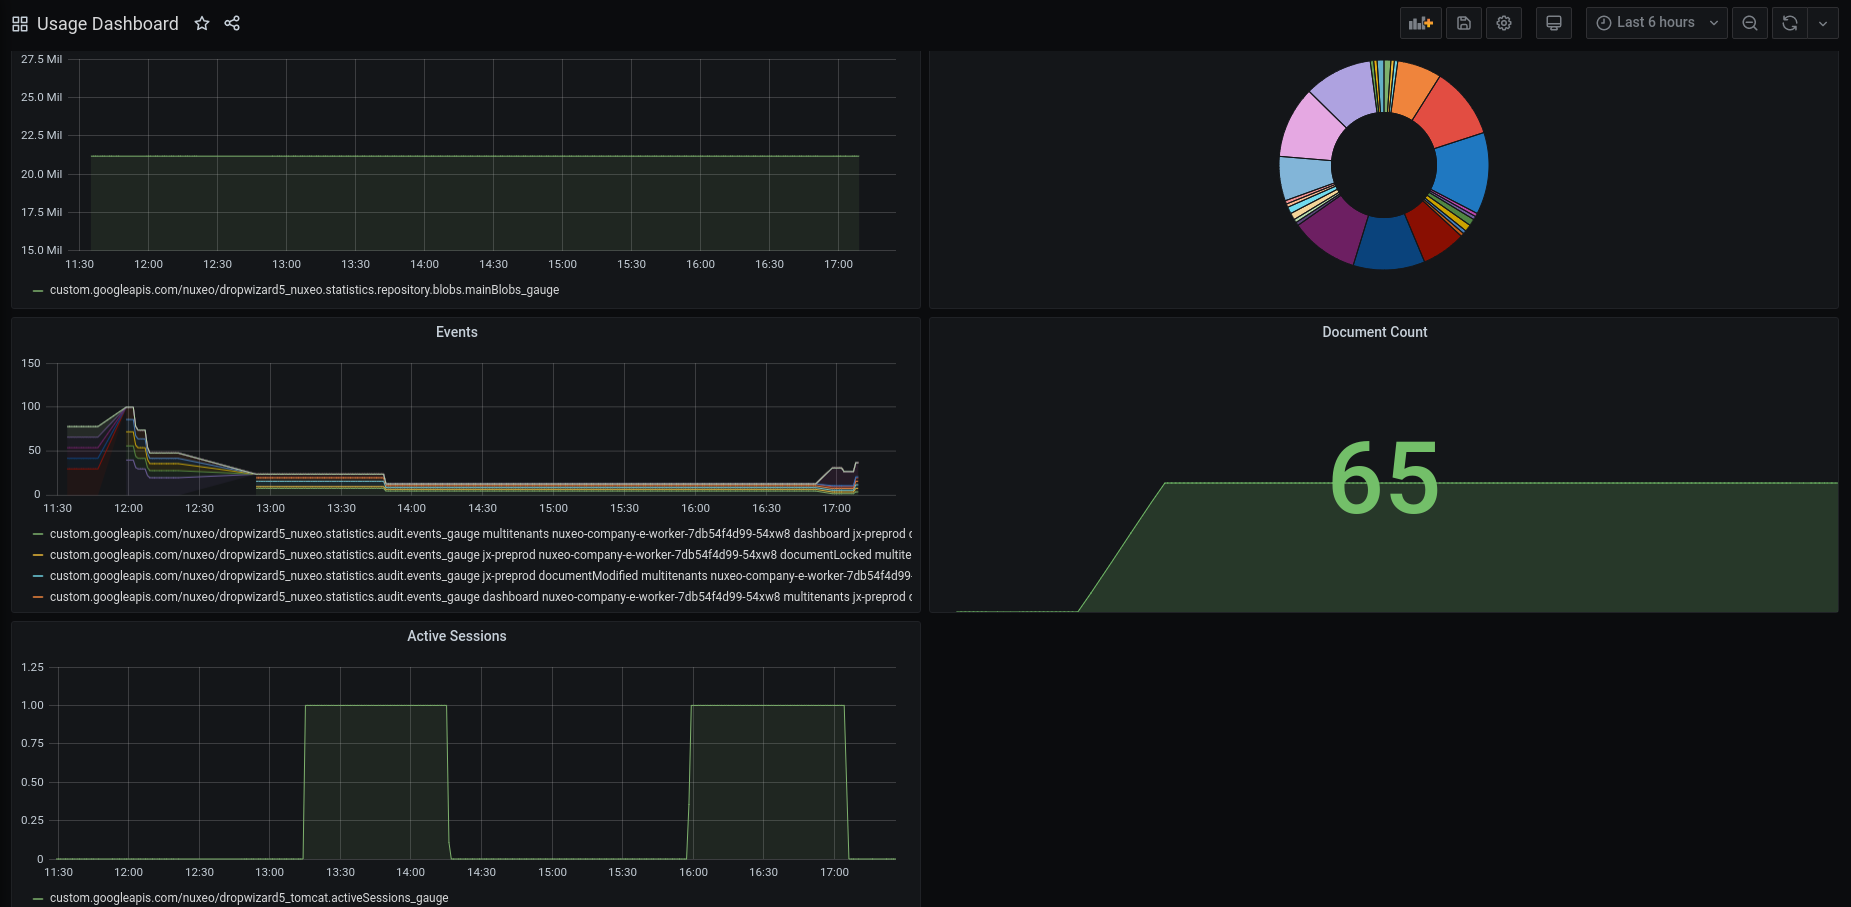
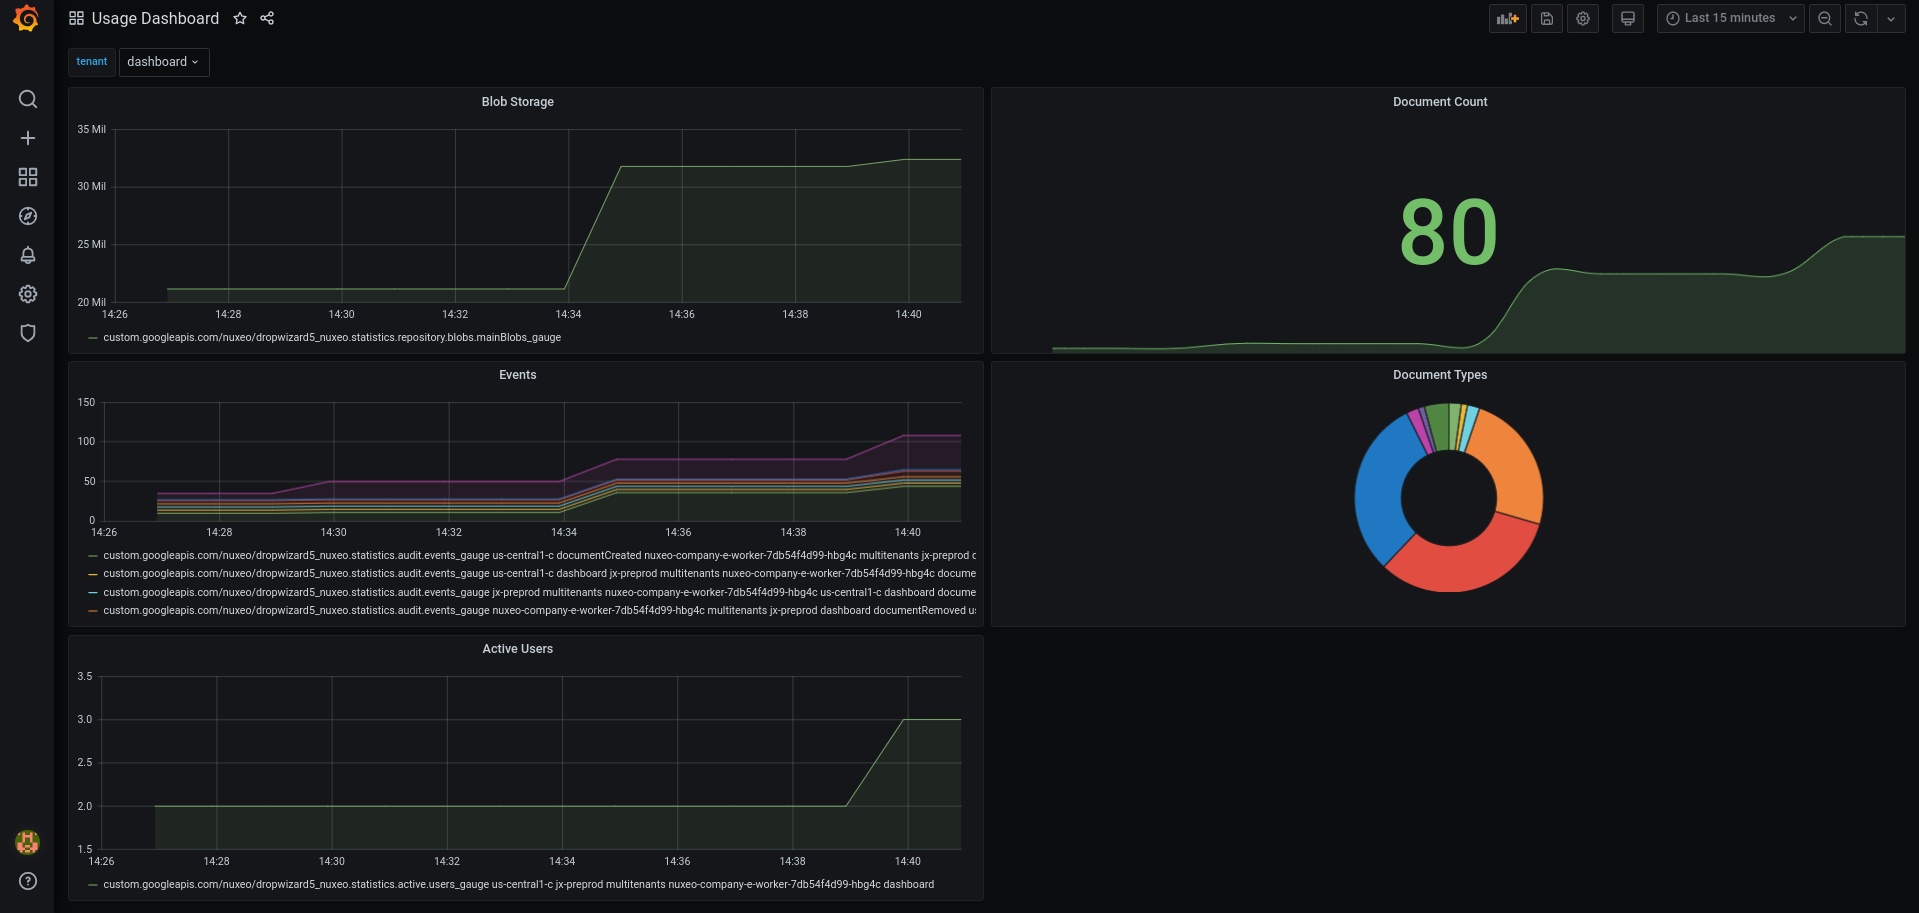
TL-369 filter out empty metrics, add active user computation and mess around with web-ui dashboards

diff --git a/nuxeo-statistics-web-ui/src/elements/nuxeo-statistics-page.js b/nuxeo-statistics-web-ui/src/elements/nuxeo-statistics-page.js
@@ -76,15 +76,9 @@ class StatisticsPage extends mixinBehaviors([I18nBehavior], PolymerElement) {
         data="{{documentsStats}}"
       ></nuxeo-statistics-data>
 
-      <!-- Document count per type -->
-      <nuxeo-card heading="[[i18n('statistics.documentTypes.heading')]]">
-        <chart-pie
-          values="[[_values(documents)]]"
-          labels="[[_labels(documents)]]"
-          options='{ "legend": { "display": true, "position": "bottom", "labels": { "boxWidth": 12 } }, "animation": false }'
-        >
-        </chart-pie>
-      </nuxeo-card>
+      <nuxeo-statistics-data metric="repository.blobs.mainBlobs.default" data="{{blobsStats}}"></nuxeo-statistics-data>
+
+      <nuxeo-statistics-data metric="active.users" data="{{usersStats}}"></nuxeo-statistics-data>
 
       <!-- Document count per type over time -->
       <nuxeo-card heading="[[i18n('statistics.documentTypes.heading')]]">
@@ -93,6 +87,26 @@ class StatisticsPage extends mixinBehaviors([I18nBehavior], PolymerElement) {
           labels="[[documentsTS.labels]]"
           series="[[documentsTS.series]]"
         ></chart-line>
+      </nuxeo-card>
+
+      <!-- Blob volume over time -->
+      <nuxeo-card heading="[[i18n('statistics.blobs.heading')]]">
+        <chart-line values="[[blobsTS.values]]" labels="[[blobsTS.labels]]" series="[[blobsTS.series]]"></chart-line>
+      </nuxeo-card>
+
+      <!-- Active users over time -->
+      <nuxeo-card heading="[[i18n('statistics.users.heading')]]">
+        <chart-line values="[[usersTS.values]]" labels="[[usersTS.labels]]" series="[[usersTS.series]]"></chart-line>
+      </nuxeo-card>
+
+      <!-- Document count per type -->
+      <nuxeo-card heading="[[i18n('statistics.documentTypes.heading')]]">
+        <chart-pie
+          values="[[_values(documents)]]"
+          labels="[[_labels(documents)]]"
+          options='{ "legend": { "display": true, "position": "bottom", "labels": { "boxWidth": 12 } }, "animation": false }'
+        >
+        </chart-pie>
       </nuxeo-card>
     `;
   }
@@ -107,6 +121,16 @@ class StatisticsPage extends mixinBehaviors([I18nBehavior], PolymerElement) {
         type: Object,
         observer: '_documentsStatsChanged',
       },
+      blobsStats: {
+        type: Object,
+        observer: '_blobsStatsChanged',
+      },
+      usersStats: {
+        type: Object,
+        observer: '_usersStatsChanged',
+      },
+      usersTS: Object,
+      blobsTS: Object,
       documentsTS: Object,
       documents: Object,
     };
@@ -125,6 +149,14 @@ class StatisticsPage extends mixinBehaviors([I18nBehavior], PolymerElement) {
     const documents = { ...data[data.length - 1] };
     delete documents.ts;
     this.documents = documents;
+  }
+
+  _blobsStatsChanged(data) {
+    this.blobsTS = _buildTS(data);
+  }
+
+  _usersStatsChanged(data) {
+    this.usersTS = _buildTS(data);
   }
 }
 

diff --git a/nuxeo-repository-statistics/src/test/java/org/nuxeo/statistics/repository/test/TestRepositoryStats.java b/nuxeo-repository-statistics/src/test/java/org/nuxeo/statistics/repository/test/TestRepositoryStats.java
@@ -17,6 +17,8 @@ import java.util.SortedMap;
 import org.elasticsearch.action.search.SearchRequest;
 import org.elasticsearch.action.search.SearchResponse;
 import org.elasticsearch.index.query.QueryBuilders;
+import org.elasticsearch.search.aggregations.AggregationBuilders;
+import org.elasticsearch.search.aggregations.bucket.terms.Terms;
 import org.elasticsearch.search.builder.SearchSourceBuilder;
 import org.junit.Test;
 import org.junit.runner.RunWith;
@@ -79,6 +81,26 @@ public class TestRepositoryStats {
 		addSomeContent();
 	
 		SearchRequest req = new SearchRequest("audit");		
+		SearchSourceBuilder sourceBuilder = new SearchSourceBuilder().size(0).
+				query(QueryBuilders.matchAllQuery())
+				.aggregation(AggregationBuilders.terms("users").field("principalName"));
+		req.source(sourceBuilder);
+		SearchResponse response = esa.getClient().search(req);
+		
+		Terms terms = response.getAggregations().get("users");
+		for (Terms.Bucket term : terms.getBuckets()) {
+			System.out.println(term.getKeyAsString() + ":" + term.getDocCount());
+		}
+
+		System.out.println(response.toString());
+		System.out.println(" #events= " + response.getHits().getTotalHits().value);
+	}
+	
+	//@Test
+	public void stupid2() throws Exception{
+		addSomeContent();
+	
+		SearchRequest req = new SearchRequest("audit");		
 		SearchSourceBuilder sourceBuilder = new SearchSourceBuilder().size(20).
 				query(QueryBuilders.matchAllQuery());
 		req.source(sourceBuilder);
@@ -86,6 +108,7 @@ public class TestRepositoryStats {
 		System.out.println(response.toString());
 		System.out.println(" #events= " + response.getHits().getTotalHits().value);
 	}
+	
 	
 		
 	@Inject
@@ -129,7 +152,7 @@ public class TestRepositoryStats {
 		file2.setPropertyValue("dc:description", "Modified");
 		file2 = session.saveDocument(file2);
 		
-		fireAuthEvent();
+		fireUserEvents();
 		
 		session.save();
 		TransactionHelper.commitOrRollbackTransaction();
@@ -143,17 +166,29 @@ public class TestRepositoryStats {
 		assertNotEquals(0, allDocs.size());
 	}
 	
-	protected void fireAuthEvent() {
-		 NuxeoPrincipal principal = new UserPrincipal("JackyChan", null, false, false);
+	protected void fireUserEvents() {
+		
+		for (int i = 0; i < 5; i++) {
+			
+		
+		 NuxeoPrincipal principal = new UserPrincipal("JackyChan"+i, null, false, false);
 
          Map<String, Serializable> props = new HashMap<>();
          props.put("AuthenticationPlugin", "foobar");
          props.put("category", "NuxeoAuthentication");
          props.put("comment", "This is a login");
-
          EventContext ctx = new UnboundEventContext(principal, props);
 
          eventService.fireEvent(ctx.newEvent("loginSuccess"));
+		}
+
+		for (int i = 0; i < 3; i++) {
+			 NuxeoPrincipal principal = new UserPrincipal("JackyChan"+i, null, false, false);
+	         Map<String, Serializable> props = new HashMap<>();
+	         props.put("category", "Document");
+	         EventContext ctx = new UnboundEventContext(principal, props);
+	         eventService.fireEvent(ctx.newEvent("download"));
+		}
 	}
 	
 	@Test
@@ -204,6 +239,11 @@ public class TestRepositoryStats {
 				foundMetrics++;		
 			}
 			
+			if (mn.getKey().startsWith("nuxeo.statistics.active.users")) {
+				// 5 Jackies + Administrator + System
+				assertEquals(7L,gauges.get(mn).getValue());
+				foundMetrics++;		
+			}
 			if (mn.getKey().startsWith("nuxeo.statistics.audit.events")) {
 				if (mn.getTags().values().contains("documentCreated")) {
 					// 3 created + 4 from Content Template because of Automation feature
@@ -215,14 +255,18 @@ public class TestRepositoryStats {
 					foundMetrics++;
 				}
 				else if (mn.getTags().values().contains("loginSuccess")) {
-					assertEquals(1L,gauges.get(mn).getValue());
+					assertEquals(5L,gauges.get(mn).getValue());
+					foundMetrics++;
+				}
+				else if (mn.getTags().values().contains("download")) {
+					assertEquals(3L,gauges.get(mn).getValue());
 					foundMetrics++;
 				}
 			}
 			
 			System.out.println(mn.toString() + ":" + gauges.get(mn).getValue());
 		}
-		assertEquals(6, foundMetrics);
+		assertEquals(8, foundMetrics);
 	
 		// check that TS were computed
 		System.out.println("##############################");	

diff --git a/nuxeo-repository-statistics/src/main/java/org/nuxeo/statistics/repository/impl/ESAuditStatisticsComputer.java b/nuxeo-repository-statistics/src/main/java/org/nuxeo/statistics/repository/impl/ESAuditStatisticsComputer.java
@@ -29,6 +29,7 @@ import org.elasticsearch.action.search.SearchType;
 import org.elasticsearch.index.query.QueryBuilders;
 import org.elasticsearch.search.aggregations.AggregationBuilders;
 import org.elasticsearch.search.aggregations.bucket.terms.Terms;
+import org.elasticsearch.search.aggregations.metrics.ParsedCardinality;
 import org.elasticsearch.search.builder.SearchSourceBuilder;
 import org.nuxeo.elasticsearch.ElasticSearchConstants;
 import org.nuxeo.elasticsearch.api.ElasticSearchAdmin;
@@ -46,7 +47,7 @@ public class ESAuditStatisticsComputer extends BaseESStatisticsComputer {
 
 	@Override
 	public Map<MetricName, Long> get() {
-		return getCountsPerEventTypes();
+		return computeEventCountMetrics();
 	}
 	
 	 protected String getESIndexName() {
@@ -58,12 +59,13 @@ public class ESAuditStatisticsComputer extends BaseESStatisticsComputer {
 		return new SearchRequest(getESIndexName()).searchType(SearchType.DFS_QUERY_THEN_FETCH);
 	}
 
-	protected Map<MetricName, Long> getCountsPerEventTypes() {
+	protected Map<MetricName, Long> computeEventCountMetrics() {
 
 		Map<MetricName, Long> ret = new LinkedHashMap<>();
 		SearchRequest searchRequest = searchRequest();
 
-		SearchSourceBuilder sourceBuilder = new SearchSourceBuilder().size(20)
+		// count events
+		SearchSourceBuilder sourceBuilder = new SearchSourceBuilder().size(0)
 				.query(QueryBuilders.rangeQuery("eventDate").gte("now-1h"))
 				.aggregation(AggregationBuilders.terms("eventId").field("eventId"));
 		
@@ -80,6 +82,23 @@ public class ESAuditStatisticsComputer extends BaseESStatisticsComputer {
 		} catch (Exception e) {
 			log.error("Failed to get Type Cardinality", e);
 		}
+		
+		// count active users	
+		searchRequest = searchRequest();
+		sourceBuilder = new SearchSourceBuilder().size(0)
+				.query(QueryBuilders.rangeQuery("eventDate").gte("now-1h"))
+				.aggregation(AggregationBuilders.cardinality("users").field("principalName"));
+		searchRequest.source(sourceBuilder);
+		
+		try {
+			SearchResponse response = getClient().search(searchRequest);			
+			ParsedCardinality pc = response.getAggregations().get("users");	
+			MetricName mn = mkMetricName("active", "users");
+			ret.put(mn, pc.getValue());
+					} catch (Exception e) {
+			log.error("Failed to get Active Users count", e);
+		}
+
 		return ret;
 	}
 

diff --git a/nuxeo-statistics-core/src/main/java/org/nuxeo/statistics/api/FetchStatisticOperation.java b/nuxeo-statistics-core/src/main/java/org/nuxeo/statistics/api/FetchStatisticOperation.java
@@ -94,11 +94,13 @@ public class FetchStatisticOperation {
 				if (start != null && end != null) {
 					long t = filterdMetrics.get("ts");
 
-					if (t <= start && t >= end) {
+					if (t <= start && t >= end && filterdMetrics.size()>1) {
 						filtered.add(filterdMetrics);
 					}
 				} else {
-					filtered.add(filterdMetrics);
+					if (filterdMetrics.size()>1) {
+						filtered.add(filterdMetrics);
+					}
 				}
 			}
 			return OBJECT_MAPPER.writer().writeValueAsString(filtered);

diff --git a/nuxeo-statistics-core/src/main/java/org/nuxeo/statistics/aggregate/StatisticTSAggregateComputation.java b/nuxeo-statistics-core/src/main/java/org/nuxeo/statistics/aggregate/StatisticTSAggregateComputation.java
@@ -79,7 +79,10 @@ public class StatisticTSAggregateComputation extends AbstractComputation {
 				do {
 					entry = tailer.read(Duration.ofSeconds(1));
 					if (entry != null) {
-						result.add(aggregate(entry.message()));
+						Map<String, Long> agg = aggregate(entry.message());
+						if (agg.size()>1) {
+							result.add(agg);
+						}
 					}
 				} while (entry != null);
 			} catch (Exception e) {

diff --git a/nuxeo-statistics-core/src/main/java/org/nuxeo/statistics/history/StreamMetricsHistoryCollector.java b/nuxeo-statistics-core/src/main/java/org/nuxeo/statistics/history/StreamMetricsHistoryCollector.java
@@ -118,6 +118,11 @@ public class StreamMetricsHistoryCollector extends ScheduledReporter {
 		ret.put("ip", hostIp);
 		ret.put("nodeId", getNodeId());	
 		ret.set("metrics", metrics);
+		
+		if (metrics.size()==0) {
+			// do not store empty metric report!
+			return;
+		}
 
 		LogAppender<Record> appender=null;
 		try {			

diff --git a/README.md b/README.md
@@ -19,6 +19,7 @@ Statistics are also made available as metrics with no added cost when it comes t
 </td></tr>
 </table> 
 
+
 ## Principles
 
 ### Computing metrics asynchronously
@@ -62,10 +63,6 @@ Then using a simple Automation Operation we can retrive the full time-series for
 
 ### Document Counts
 
-
-nuxeo.statistics.audit.event{event=documentCreated}:3
-nuxeo.statistics.audit.event{event=documentModified}:1
-
 The Metric name is `nuxeo.statistics.repository.documents`.
 The tags added to the Metric are:
     - `repository` for the repository name
@@ -103,6 +100,13 @@ If during the last hour 3 documents were created and 1 modified:
 
     nuxeo.statistics.audit.events{event=documentCreated}:3
     nuxeo.statistics.audit.events{event=documentModified}:1
+
+### Active Users statistics
+
+The number of active users if computed by extracting unique users associated to events in the Audit log over the last hour.
+
+The Metric name is `nuxeo.statistics.active.users`.
+There are no tags added to this Metric.
 
 ## API
 
